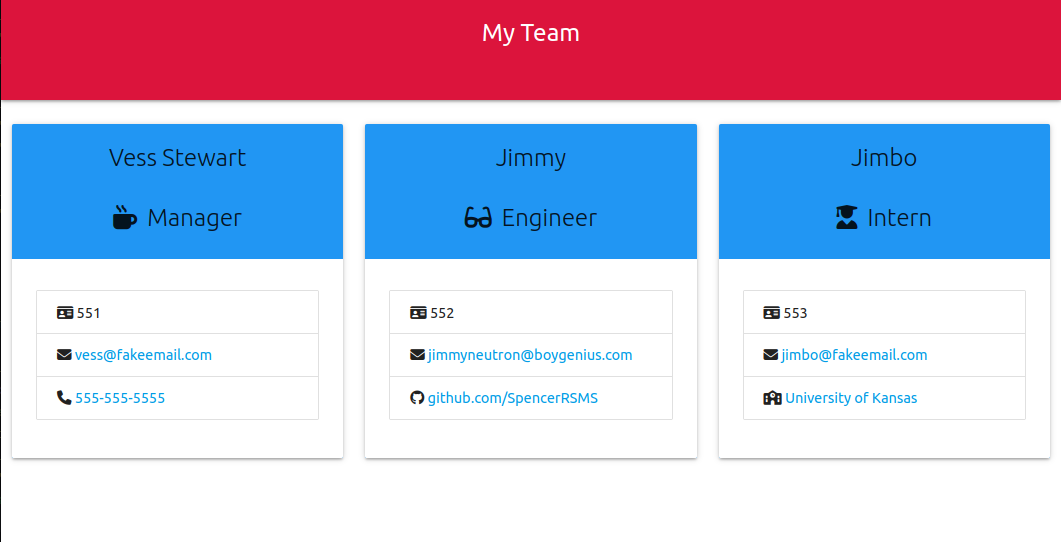
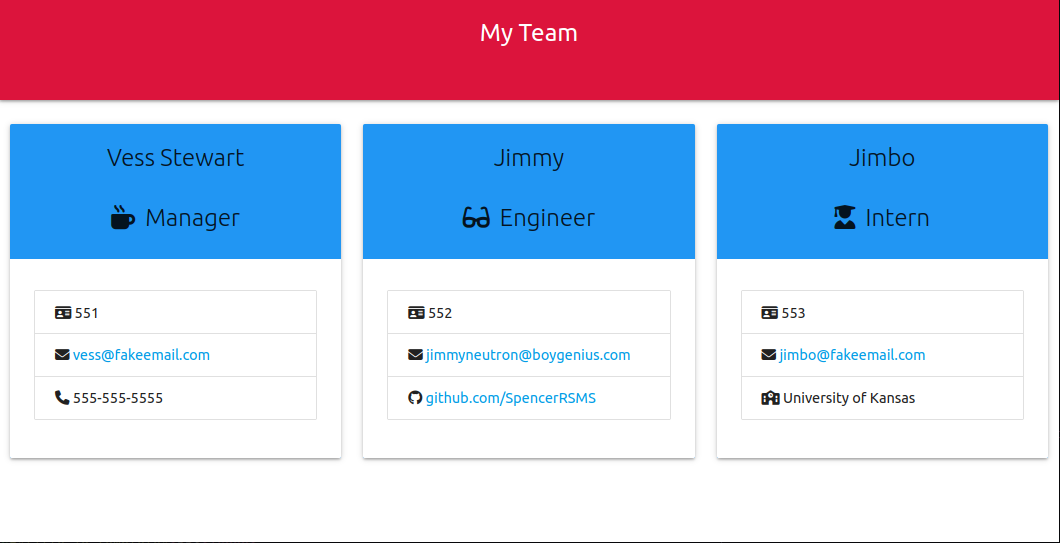
updated all files to clean up code, finished README.md afaik, updated image files

diff --git a/index.js b/index.js
@@ -161,18 +161,17 @@ async function init() {
         name.eq(i).append(`<p style=\"text-align:center; padding-top:15px\">${await employees[i].getName()}</p>`);
 
         id.eq(i).html(await employees[i].getId());
-        const email_address = await employees[i].getEmail()
+        const email_address = await employees[i].getEmail();
         email.eq(i).attr('href', `mailto: ${email_address}`);
         email.eq(i).html(email_address);
 
         switch(await employees[i].getRole()) {
             case 'Engineer':
-                const username = await employees[i].getGithub()
+                const username = await employees[i].getGithub();
                 name.eq(i).append(ICONS['ENGINEER']);
                 extra.eq(i).parent().prepend(ICONS['GITHUB']);
-                extra.eq(i).attr('target', '_blank');
-                extra.eq(i).attr('href', `https://github.com/${username}`)
-                extra.eq(i).html(`github.com/${username}`);
+                extra.eq(i).html(`<a class="title" href="https://github.com/${username}"` +
+                    `target="_blank">github.com/${username}</a>`);
                 break;
             case 'Manager':
                 const office_number = await employees[i].getOfficeNumber();
@@ -202,7 +201,7 @@ async function init() {
  * @returns {Promise<*>}
  */
 async function add_employee() {
-    return inquirer.prompt([questions[ADD_EMPLOYEE_QUESTION]])
+    return inquirer.prompt([questions[ADD_EMPLOYEE_QUESTION]]);
 }
 
 /**
@@ -216,7 +215,7 @@ async function manager_questions() {
             questions[NAME_QUESTION],
             questions[ID_QUESTION],
             questions[EMAIL_QUESTION]
-        ])
+        ]);
 }
 
 /**
@@ -230,7 +229,7 @@ async function engineer_questions() {
             questions[NAME_QUESTION],
             questions[ID_QUESTION],
             questions[EMAIL_QUESTION]
-        ])
+        ]);
 }
 
 /**
@@ -244,7 +243,7 @@ async function intern_questions() {
             questions[NAME_QUESTION],
             questions[ID_QUESTION],
             questions[EMAIL_QUESTION]
-        ])
+        ]);
 }
 
 // Function call to initialize app

diff --git a/__tests__/Manager.test.js b/__tests__/Manager.test.js
@@ -13,8 +13,8 @@ describe("Manager", () => {
             // Finally, we test if our exampleOutput matches that of the getName() method
             // inherited by the Manager class.
             expect(manager.getName()).toEqual(exampleOutput);
-        })
-    })
+        });
+    });
 
     // test Manager class getId() method
     describe("getId", () => {
@@ -27,8 +27,8 @@ describe("Manager", () => {
             // Finally, we test if our exampleOutput matches that of the getId() method
             // inherited by the Manager class.
             expect(manager.getId()).toEqual(exampleOutput);
-        })
-    })
+        });
+    });
 
     // test Manager class getEmail() method
     describe("getEmail", () => {
@@ -41,8 +41,8 @@ describe("Manager", () => {
             // Finally, we test if our exampleOutput matches that of the getEmail() method
             // inherited by the Manager class.
             expect(manager.getEmail()).toEqual(exampleOutput);
-        })
-    })
+        });
+    });
 
     // test Manager class getRole() method
     describe("getRole", () => {
@@ -55,8 +55,8 @@ describe("Manager", () => {
             // Finally, we test if our exampleOutput matches that of the getRole() method
             // inherited by the Manager class.
             expect(manager.getRole()).toEqual(exampleOutput);
-        })
-    })
+        });
+    });
 
     // test Manager class getOfficeNumber() method
     describe("getOfficeNumber", () => {
@@ -69,6 +69,6 @@ describe("Manager", () => {
             // Finally, we test if our exampleOutput matches that of the getOfficeNumber() method
             // inherited by the Manager class.
             expect(manager.getOfficeNumber()).toEqual(exampleOutput);
-        })
-    })
+        });
+    });
 });

diff --git a/__tests__/Engineer.test.js b/__tests__/Engineer.test.js
@@ -13,8 +13,8 @@ describe("Engineer", () => {
             // Finally, we test if our exampleOutput matches that of the getName() method
             // inherited by the Engineer class.
             expect(engineer.getName()).toEqual(exampleOutput);
-        })
-    })
+        });
+    });
 
     // test Engineer class getId() method
     describe("getId", () => {
@@ -27,8 +27,8 @@ describe("Engineer", () => {
             // Finally, we test if our exampleOutput matches that of the getId() method
             // inherited by the Engineer class.
             expect(engineer.getId()).toEqual(exampleOutput);
-        })
-    })
+        });
+    });
 
     // test Engineer class getEmail() method
     describe("getEmail", () => {
@@ -41,8 +41,8 @@ describe("Engineer", () => {
             // Finally, we test if our exampleOutput matches that of the getEmail() method
             // inherited by the Engineer class.
             expect(engineer.getEmail()).toEqual(exampleOutput);
-        })
-    })
+        });
+    });
 
     // test Engineer class getRole() method
     describe("getRole", () => {
@@ -55,8 +55,8 @@ describe("Engineer", () => {
             // Finally, we test if our exampleOutput matches that of the getRole() method
             // inherited by the Engineer class.
             expect(engineer.getRole()).toEqual(exampleOutput);
-        })
-    })
+        });
+    });
 
     // test Engineer class getGithub() method
     describe("getGithub", () => {
@@ -69,6 +69,6 @@ describe("Engineer", () => {
             // Finally, we test if our exampleOutput matches that of the getGithub() method
             // inherited by the Engineer class.
             expect(engineer.getGithub()).toEqual(exampleOutput);
-        })
-    })
+        });
+    });
 });

diff --git a/__tests__/Intern.test.js b/__tests__/Intern.test.js
@@ -13,8 +13,8 @@ describe("Intern", () => {
             // Finally, we test if our exampleOutput matches that of the getName() method
             // inherited by the Intern class.
             expect(intern.getName()).toEqual(exampleOutput);
-        })
-    })
+        });
+    });
 
     // test Intern class getId() method
     describe("getId", () => {
@@ -27,8 +27,8 @@ describe("Intern", () => {
             // Finally, we test if our exampleOutput matches that of the getId() method
             // inherited by the Intern class.
             expect(intern.getId()).toEqual(exampleOutput);
-        })
-    })
+        });
+    });
 
     // test Intern class getEmail() method
     describe("getEmail", () => {
@@ -41,8 +41,8 @@ describe("Intern", () => {
             // Finally, we test if our exampleOutput matches that of the getEmail() method
             // inherited by the Intern class.
             expect(intern.getEmail()).toEqual(exampleOutput);
-        })
-    })
+        });
+    });
 
     // test Intern class getRole() method
     describe("getRole", () => {
@@ -55,8 +55,8 @@ describe("Intern", () => {
             // Finally, we test if our exampleOutput matches that of the getRole() method
             // inherited by the Intern class.
             expect(intern.getRole()).toEqual(exampleOutput);
-        })
-    })
+        });
+    });
 
     // test Intern class getSchool() method
     describe("getSchool", () => {
@@ -69,6 +69,6 @@ describe("Intern", () => {
             // Finally, we test if our exampleOutput matches that of the getSchool() method
             // inherited by the Intern class.
             expect(intern.getSchool()).toEqual(exampleOutput);
-        })
-    })
+        });
+    });
 });

diff --git a/dist/output.html b/dist/output.html
@@ -25,7 +25,7 @@
                     <a class="title email-template" href="mailto: vess@fakeemail.com">vess@fakeemail.com</a>
                 </li>
                 <li class="collection-item"><i class="fa fa-solid fa-phone"></i>
-                    <a class="title extra-template">555-555-5555</a>
+                    <span class="title extra-template">555-555-5555</span>
                 </li>
             </ul>
         </div>
@@ -45,7 +45,7 @@
                     <a class="title email-template" href="mailto: jimmyneutron@boygenius.com">jimmyneutron@boygenius.com</a>
                 </li>
                 <li class="collection-item"><i class="fa fa-brands fa-github"></i>
-                    <a class="title extra-template" target="_blank" href="https://github.com/SpencerRSMS">github.com/SpencerRSMS</a>
+                    <span class="title extra-template"><a class="title" href="https://github.com/SpencerRSMS" target="_blank">github.com/SpencerRSMS</a></span>
                 </li>
             </ul>
         </div>
@@ -65,7 +65,7 @@
                     <a class="title email-template" href="mailto: jimbo@fakeemail.com">jimbo@fakeemail.com</a>
                 </li>
                 <li class="collection-item"><i class="fa fa-thin fa-school"></i>
-                    <a class="title extra-template">University of Kansas</a>
+                    <span class="title extra-template">University of Kansas</span>
                 </li>
             </ul>
         </div>

diff --git a/__tests__/Employee.test.js b/__tests__/Employee.test.js
@@ -13,8 +13,8 @@ describe("Employee", () => {
             // Finally, we test if our exampleOutput matches that of the getName() method
             // found within the Employee class.
             expect(employee.getName()).toEqual(exampleOutput);
-        })
-    })
+        });
+    });
 
     // test Employee class getId() method
     describe("getId", () => {
@@ -27,8 +27,8 @@ describe("Employee", () => {
             // Finally, we test if our exampleOutput matches that of the getId() method
             // found within the Employee class.
             expect(employee.getId()).toEqual(exampleOutput);
-        })
-    })
+        });
+    });
 
     // test Employee class getEmail() method
     describe("getEmail", () => {
@@ -41,8 +41,8 @@ describe("Employee", () => {
             // Finally, we test if our exampleOutput matches that of the getEmail() method
             // found within the Employee class.
             expect(employee.getEmail()).toEqual(exampleOutput);
-        })
-    })
+        });
+    });
 
     // test Employee class getRole() method
     describe("getRole", () => {
@@ -55,6 +55,6 @@ describe("Employee", () => {
             // Finally, we test if our exampleOutput matches that of the getRole() method
             // found within the Employee class.
             expect(employee.getRole()).toEqual(exampleOutput);
-        })
-    })
+        });
+    });
 });

diff --git a/src/Card_Template.html b/src/Card_Template.html
@@ -13,7 +13,7 @@
                     <a class="title email-template"></a>
                 </li>
                 <li class="collection-item">
-                    <a class="title extra-template"></a>
+                    <span class="title extra-template"></span>
                 </li>
             </ul>
         </div>

diff --git a/README.md b/README.md
@@ -10,24 +10,43 @@
 - [Live Site](#Links)
 
 ## Description
+A Node.js project that prompts the user for information regarding a team of people
+(Manager, Engineers, and Interns currently). After input has been given, generates an HTML
+file for simple file containing the team member information, prettied up a touch with Materialize
+and Font Awesome icons.
+
+## Installation
+1 - Ensure Node.js has been properly installed
+2 - Download or clone the project locally
+3 - Navigate to folder via CLI
+4 - Run 'npm i' to install dependencies
 
 ## Usage
+1 - Navigate to folder via CLI
+2 - Run 'npm start' to run the program
+3 - Follow prompts within CLI
 
 ## Credits
 Developed by:
 Vess Stewart - [GitHub](https://github.com/SpencerRSMS)
 
 ## Features
-- HTML file generation via 
+- HTML file generation
 - Utilizes mock DOM via JSDOM
 - DOM manipulation via jQuery
 - Jest tests for each class
-- Materialize UI
+- Materialize CSS
 - Font Awesome
 - Object Oriented Design
-- 
+- E-mails links populate To: field in default service automatically
+- GitHub links will pop out in new tab
 
-### Example
+## Example
+#### Utilizing CLI
+![image](./images/example_run.webm)
+
+#### Example Output
+![image](./images/example_output.png)
 
 ## Links
 #### [GitHub repository](https://github.com/SpencerRSMS/Coding-Quiz).
